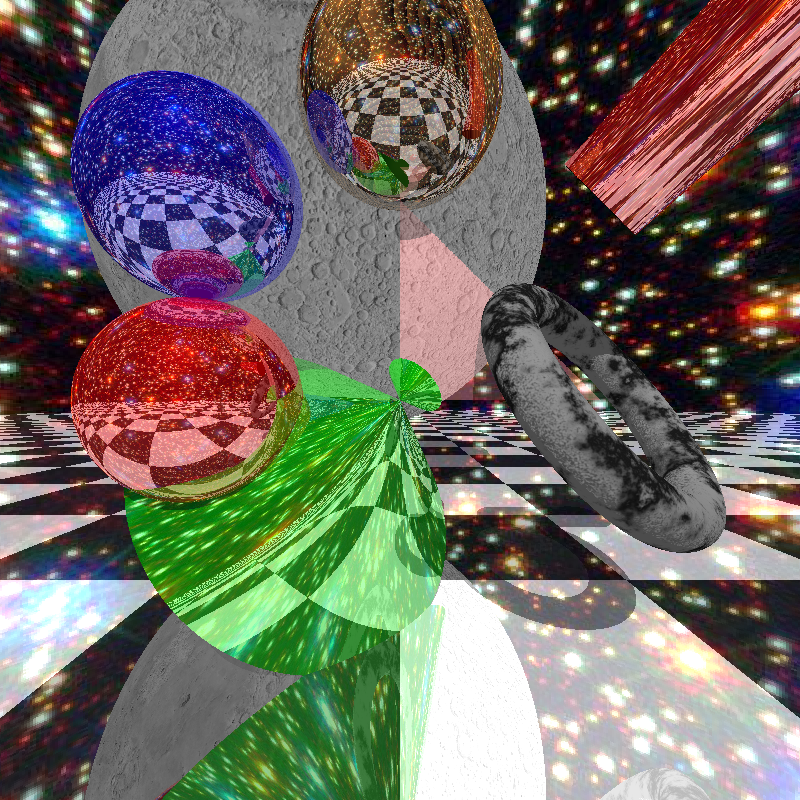
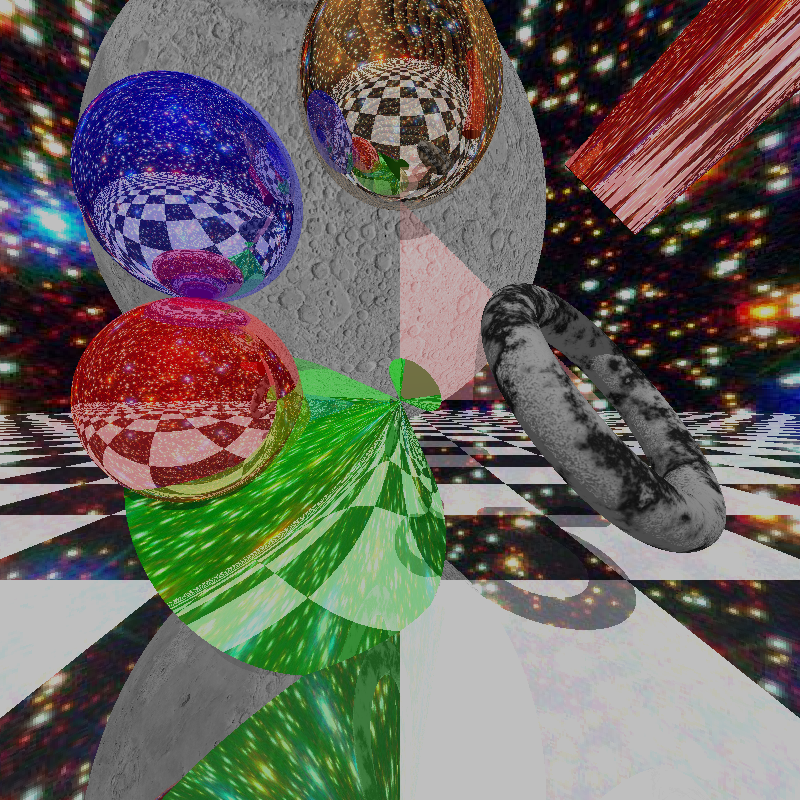
Fixed everything yay!

diff --git a/Tracer/src/main/java/scene/render/SceneRenderer.java b/Tracer/src/main/java/scene/render/SceneRenderer.java
@@ -1,20 +1,15 @@
 package scene.render;
 
 import java.awt.image.BufferedImage;
-import java.awt.image.WritableRaster;
-import java.io.File;
 import java.io.IOException;
 import java.util.ArrayList;
 import java.util.Collection;
-import java.util.GregorianCalendar;
 import java.util.List;
 import java.util.concurrent.Callable;
 import java.util.concurrent.ExecutionException;
 import java.util.concurrent.ExecutorService;
 import java.util.concurrent.Executors;
 import java.util.concurrent.Future;
-import etc.RaytracerException;
-import javax.imageio.ImageIO;
 
 import math.Point;
 import math.UVW;
@@ -24,15 +19,14 @@ import math.Vector;
 import scene.Scene;
 import scene.render.factory.RenderThreadFactory;
 import scene.render.factory.RenderThreadFactoryImpl;
+import scene.render.factory.ResultsConverterFactory;
+import scene.render.factory.ResultsConverterFactoryImpl;
 import scene.viewer.ViewingVolume;
 import scene.viewer.factory.ViewingVolumeFactory;
 import scene.viewer.factory.ViewingVolumeFactoryImpl;
-import sun.reflect.generics.reflectiveObjects.NotImplementedException;
-import util.Constants;
-import util.FileLocator;
-import util.Library;
 import util.stopwatch.StopWatch;
 import util.stopwatch.StopWatchImpl;
+import etc.RaytracerException;
 
 public class SceneRenderer
 {
@@ -43,20 +37,20 @@ public class SceneRenderer
 	private int height;
 	private int numThreads;
 	private Scene scene;
-	private String fileName;
 	private UVW basis;
 	private Point light;
 	private StopWatch stopWatch;
 	private RenderResult renderResult;
-	private BufferedImage image;
 	private RenderThreadFactory renderThreadFactory;
 	private ViewingVolume viewVolume;
+	private ResultsConverterFactory resultsConverterFactory;
 	
 	private static final ExecutorService workers = Executors.newCachedThreadPool();
 	
 	public SceneRenderer(Vector incomingUp, Vector incomingGaze, Point incomingEye, int incomingLeft, int incomingRight, int incomingTop, int incomingBottom, int incomingWidth,
-						 int incomingHeight, int incomingNumThreads, Scene incomingScene, String incomingFileName, Point incomingLight, UVWFactory factory,
-						 StopWatch incomingStopWatch, RenderThreadFactory incomingRenderThreadFactory, ViewingVolumeFactory incomingViewingVolumeFactory) throws RaytracerException
+						 int incomingHeight, int incomingNumThreads, Scene incomingScene, Point incomingLight, UVWFactory factory,
+						 StopWatch incomingStopWatch, RenderThreadFactory incomingRenderThreadFactory, ViewingVolumeFactory incomingViewingVolumeFactory,
+						 ResultsConverterFactory incomingResultsConverterFactory) throws RaytracerException
 	{
 		if(incomingNumThreads <= 0)
 		{
@@ -69,52 +63,37 @@ public class SceneRenderer
 		width = incomingWidth;
 		height = incomingHeight;
 		basis = factory.createUVW(up, gaze);
-		fileName = incomingFileName;
 		light = incomingLight;
 		scene = incomingScene;
 		stopWatch = incomingStopWatch;
 		renderResult = new RenderResult();
-		image = new BufferedImage(width, height, BufferedImage.TYPE_INT_RGB);
 		renderThreadFactory = incomingRenderThreadFactory;
 		viewVolume = incomingViewingVolumeFactory.getVolume(incomingLeft, incomingRight, incomingBottom, incomingTop);
+		resultsConverterFactory = incomingResultsConverterFactory;
 	}
 	
 	public SceneRenderer(Vector incomingUp, Vector incomingGaze, Point incomingEye, int incomingLeft, int incomingRight, int incomingTop, int incomingBottom, int incomingWidth,
-			 int incomingHeight, int incomingNumThreads, Scene incomingScene, String incomingFileName, Point incomingLight) throws RaytracerException
+			 int incomingHeight, int incomingNumThreads, Scene incomingScene, Point incomingLight) throws RaytracerException
 	{
 		this(incomingUp, incomingGaze, incomingEye, incomingLeft, incomingRight, incomingTop, incomingBottom, incomingWidth, incomingHeight,
-			 incomingNumThreads, incomingScene, incomingFileName, incomingLight, new UVWFactoryImpl(), new StopWatchImpl(), new RenderThreadFactoryImpl(), new ViewingVolumeFactoryImpl());
+			 incomingNumThreads, incomingScene, incomingLight, new UVWFactoryImpl(), new StopWatchImpl(), new RenderThreadFactoryImpl(), new ViewingVolumeFactoryImpl(),
+			 new ResultsConverterFactoryImpl());
 	}
 	
-	public RenderResult render() throws IOException, InterruptedException
+	public RenderResult render() throws IOException, InterruptedException, ExecutionException
 	{
 		stopWatch.start();
-		double[][][] imageData = new double[width][height][3];
-		
+
 		int threadHeight = height / numThreads;
 		
 		int leftOverThreadHeight = height % numThreads;
 		
 		List<Future<double[][][]>> results = renderScene(threadHeight, leftOverThreadHeight);
 		
-		int index = 0;
-		int largestIntColorValue = 0;
-		int totalSamples = 0;
-		int totalRGBValues  = 0;
-		int numberAbove255 = 0;
+		ResultsConverter resultsConverter = resultsConverterFactory.getConverter(results, width, height);
 		
-		WritableRaster raster = image.getRaster();
-		for(int w = 0; w < width; w++)
-		{
-			for(int h = 0; h < height; h++)
-			{
-				raster.setPixel(w,((height-1)-h),imageData[w][h]);
-			}
-		}
+		BufferedImage image = resultsConverter.getImageFromResults();
 		
-		FileLocator loc = new FileLocator();
-		String writeToFile = loc.getImageDirectory() + fileName;
-		ImageIO.write(image,"PNG",new File(writeToFile + ".png"));
 		renderResult.setImage(image);
 		renderResult.setStopWatch(stopWatch);
 		stopWatch.stop();
@@ -139,10 +118,5 @@ public class SceneRenderer
 		}
 		List<Future<double[][][]>> results = workers.invokeAll(tasks);
 		return results;
-	}
-		
-	public static int convertToInt(double incoming)
-	{
-		return (int) ((int) (255 * incoming));
 	}
 }

diff --git a/Tracer/src/main/java/scene/render/ResultsConverterImpl.java b/Tracer/src/main/java/scene/render/ResultsConverterImpl.java
@@ -1,6 +1,7 @@
 package scene.render;
 
 import java.awt.image.BufferedImage;
+import java.awt.image.WritableRaster;
 import java.util.Collection;
 import java.util.concurrent.ExecutionException;
 import java.util.concurrent.Future;
@@ -10,11 +11,21 @@ public class ResultsConverterImpl implements ResultsConverter
 	private Collection<Future<double[][][]>> results;
 	private int width;
 	private int height;
+	private ResultsScaler resultsScaler;
+	private BufferedImage image;
 	
 	public ResultsConverterImpl(Collection<Future<double[][][]>> incomingResults, int incomingWidth, int incomingHeight)
 	{
+		this(incomingResults, incomingWidth, incomingHeight, new ResultsScalerImpl(), new BufferedImage(incomingWidth, incomingHeight, BufferedImage.TYPE_INT_RGB));
+	}
+
+	public ResultsConverterImpl(Collection<Future<double[][][]>> incomingResults, int incomingWidth, int incomingHeight, ResultsScaler incomingResultsScaler, BufferedImage incomingImage)
+	{
+		resultsScaler = incomingResultsScaler;
 		results = incomingResults;
 		height = incomingHeight;
+		image = incomingImage;
+		width = incomingWidth;
 	}
 	
 	@Override
@@ -32,14 +43,32 @@ public class ResultsConverterImpl implements ResultsConverter
 			{
 				for(int h = 0; h < threadHeight; h++)
 				{
-					imageData[w][h + offsetHeight][RenderThread.RED_INDEX] = (int) anImage[w][h][RenderThread.RED_INDEX] * MAX_COLOR_INT_VAL;
-					imageData[w][h + offsetHeight][RenderThread.GREEN_INDEX] = (int) anImage[w][h][RenderThread.GREEN_INDEX] * MAX_COLOR_INT_VAL;
-					imageData[w][h + offsetHeight][RenderThread.BLUE_INDEX] = (int) anImage[w][h][RenderThread.BLUE_INDEX] * MAX_COLOR_INT_VAL;
+					for(int c = 0; c < anImage[w][h].length; c++)
+					{
+						imageData[w][h + offsetHeight][c] = (int) (anImage[w][h][c] * MAX_COLOR_INT_VAL);
+					}
 				}
 			}
 			
 			offsetHeight += threadHeight;
 		}
-		return null;
+		
+		imageData = resultsScaler.scale(imageData);
+		
+		setBufferedImageFromData(imageData);
+		
+		return image;
+	}
+	
+	private void setBufferedImageFromData(int[][][] imageData)
+	{
+		WritableRaster raster = image.getRaster();
+		for(int w = 0; w < width; w++)
+		{
+			for(int h = 0; h < height; h++)
+			{
+				raster.setPixel(w,((height-1)-h),imageData[w][h]);
+			}
+		}
 	}
 }

diff --git a/Tracer/src/main/java/util/Library.java b/Tracer/src/main/java/util/Library.java
@@ -14,14 +14,12 @@ import math.Vector;
 
 import org.apache.commons.math.complex.Complex;
 
+import scene.Scene;
+import scene.ray.Ray;
+import surface.Surface;
 import etc.Color;
 import etc.HitData;
 import etc.RaytracerException;
-
-import scene.Scene;
-import scene.ray.Ray;
-import sun.reflect.generics.reflectiveObjects.NotImplementedException;
-import surface.Surface;
 
 
 
@@ -112,7 +110,7 @@ public class Library
 	
 	public static boolean isInShadow(Surface currSurface, Scene scene, Point light, HitData hitData) throws RaytracerException
 	{
-		/*Vector d = light.minus(hitData.getP());
+		Vector d = light.minus(hitData.getP());
 				
 		double distanceToLight = d.magnitude();
 		
@@ -120,21 +118,17 @@ public class Library
 		
 		Ray rayShotToLight = new Ray(d, hitData.getP());
 		
-		for(Surface inFrontSurface : surfaceList)
+		HitData shadowData = scene.getSmallestPositiveHitDataOrReturnMiss(rayShotToLight);
+		if(shadowData.isHit() && shadowData.getSurface().getType() != Surface.SurfaceType.Outersphere)
 		{
-			HitData shadowData = inFrontSurface.getHitData(rayShotToLight);
-			if(shadowData.isHit() && inFrontSurface.getType() != Surface.SurfaceType.Outersphere)
+			//if the light point occurs closer to a hit point than this object, then the object is not in shadow
+			double distanceToClosePoint = shadowData.getP().minus(hitData.getP()).magnitude();
+			if(distanceToClosePoint < distanceToLight)
 			{
-				//if the light point occurs closer to a hit point than this object, then the object is not in shadow
-				double distanceToClosePoint = shadowData.getP().minus(hitData.getP()).magnitude();
-				if(distanceToClosePoint < distanceToLight)
-				{
-					return true;
-				}
+				return true;
 			}
 		}
-		return false;*/
-		throw new NotImplementedException();
+		return false;
 	}
 	
 	public static Color getColorLambertian(Color cR, Color cA, Color cL, Vector n, Point light, Point p, 

diff --git a/Tracer/src/main/java/pictures/TestProg.java b/Tracer/src/main/java/pictures/TestProg.java
@@ -1,6 +1,9 @@
 package pictures;
 
+import java.io.File;
 import java.util.ArrayList;
+
+import javax.imageio.ImageIO;
 
 import math.Point;
 import math.Vector;
@@ -8,6 +11,7 @@ import noise.noiseClasses.NoiseStone;
 import noise.noiseClasses.NoiseWood;
 import scene.Scene;
 import scene.SceneImpl;
+import scene.render.RenderResult;
 import scene.render.SceneRenderer;
 import surface.Surface;
 import surface.primitives.Cone;
@@ -141,8 +145,9 @@ public class TestProg
 		Point light = new Point(0.0,100.0, 100.0);
 		
 		Scene scene = new SceneImpl(surfaceList);
-				
-		SceneRenderer renderer = new SceneRenderer(up, gaze, eye, left, right, top, bottom, width, height, 1, scene, "yonPicture", light);
-		renderer.render();
+		SceneRenderer renderer = new SceneRenderer(up, gaze, eye, left, right, top, bottom, width, height, 1, scene, light);
+		RenderResult result = renderer.render();
+		System.out.println("scene rendered in: " + result.getStopWatch().getDifference());
+		ImageIO.write(result.getImage(), "PNG", new File("C:\\raytracer\\Tracer\\img\\yonPicture.png"));
 	}
 }

diff --git a/Tracer/src/test/java/scene/viewer/factory/ResultsConverterFactoryImpl_UnitTests.java b/Tracer/src/test/java/scene/viewer/factory/ResultsConverterFactoryImpl_UnitTests.java
@@ -1,0 +1,32 @@
+package scene.viewer.factory;
+
+import java.util.ArrayList;
+import java.util.Collection;
+import java.util.concurrent.Future;
+
+import junit.framework.Assert;
+
+import org.junit.Test;
+
+import scene.render.ResultsConverter;
+import scene.render.factory.ResultsConverterFactoryImpl;
+
+public class ResultsConverterFactoryImpl_UnitTests
+{
+	@Test
+	public void getConverter_WithValue_ExpectNotNull()
+	{
+		//Given
+		Collection<Future<double[][][]>> incomingResults = new ArrayList<Future<double[][][]>>();
+		int incomingWidth = 5;
+		int incomingHeight = 7;
+		
+		ResultsConverterFactoryImpl classUnderTest = new ResultsConverterFactoryImpl();
+		
+		//When
+		ResultsConverter ret = classUnderTest.getConverter(incomingResults, incomingWidth, incomingHeight);
+		
+		//Then
+		Assert.assertNotNull(ret);
+	}
+}

diff --git a/Tracer/src/main/java/scene/pixel/ScenePixelImpl.java b/Tracer/src/main/java/scene/pixel/ScenePixelImpl.java
@@ -57,7 +57,7 @@ public class ScenePixelImpl implements ScenePixel
 		Color reflectReturnColor = getReflectedColor(r, currentDepth, hit, currSurface);
 		Color refractReturnColor = getRefractedColor(r, currentDepth, hit, currSurface);
 		boolean inShadow = Library.isInShadow(currSurface, scene, light, hit);
-		surfaceColor =  currSurface.getColor(light, eye, Constants.PHONG_EXPONENT, inShadow, hit.getNormal(), hit.getP());
+		surfaceColor = currSurface.getColor(light, eye, Constants.PHONG_EXPONENT, inShadow, hit.getNormal(), hit.getP());
 		
 		totalColor.red += reflectReturnColor.red + refractReturnColor.red + surfaceColor.red;
 		totalColor.blue += reflectReturnColor.blue + refractReturnColor.blue + surfaceColor.blue;

diff --git a/Tracer/src/main/java/scene/render/factory/ResultsConverterFactoryImpl.java b/Tracer/src/main/java/scene/render/factory/ResultsConverterFactoryImpl.java
@@ -1,0 +1,18 @@
+package scene.render.factory;
+
+import java.util.Collection;
+import java.util.concurrent.Future;
+
+import scene.render.ResultsConverter;
+import scene.render.ResultsConverterImpl;
+
+public class ResultsConverterFactoryImpl implements ResultsConverterFactory
+{
+
+	@Override
+	public ResultsConverter getConverter(Collection<Future<double[][][]>> incomingResults,int incomingWidth, int incomingHeight)
+	{
+		return new ResultsConverterImpl(incomingResults, incomingWidth, incomingHeight);
+	}
+
+}

diff --git a/Tracer/src/main/java/pictures/TestCSG.java b/Tracer/src/main/java/pictures/TestCSG.java
@@ -109,7 +109,7 @@ public class TestCSG
 		
 		Scene scene = new SceneImpl(surfaceList);
 				
-		SceneRenderer renderer = new SceneRenderer(up, gaze, eye, left, right, top, bottom, width, height, 1, scene, "yonPicture", light);
+		SceneRenderer renderer = new SceneRenderer(up, gaze, eye, left, right, top, bottom, width, height, 1, scene, light);
 		renderer.render();
 	}
 }

diff --git a/Tracer/src/main/java/scene/render/factory/ResultsConverterFactory.java b/Tracer/src/main/java/scene/render/factory/ResultsConverterFactory.java
@@ -1,0 +1,11 @@
+package scene.render.factory;
+
+import java.util.Collection;
+import java.util.concurrent.Future;
+
+import scene.render.ResultsConverter;
+
+public interface ResultsConverterFactory
+{
+	public ResultsConverter getConverter(Collection<Future<double[][][]>> incomingResults, int incomingWidth, int incomingHeight);
+}

diff --git a/Tracer/src/main/java/scene/render/ResultsScalerImpl.java b/Tracer/src/main/java/scene/render/ResultsScalerImpl.java
@@ -3,6 +3,7 @@ package scene.render;
 public class ResultsScalerImpl implements ResultsScaler
 {
 	private final double PCT_VALUE_START_SCALE = 0.75;
+	
 	@Override
 	public int[][][] scale(int[][][] image)
 	{
